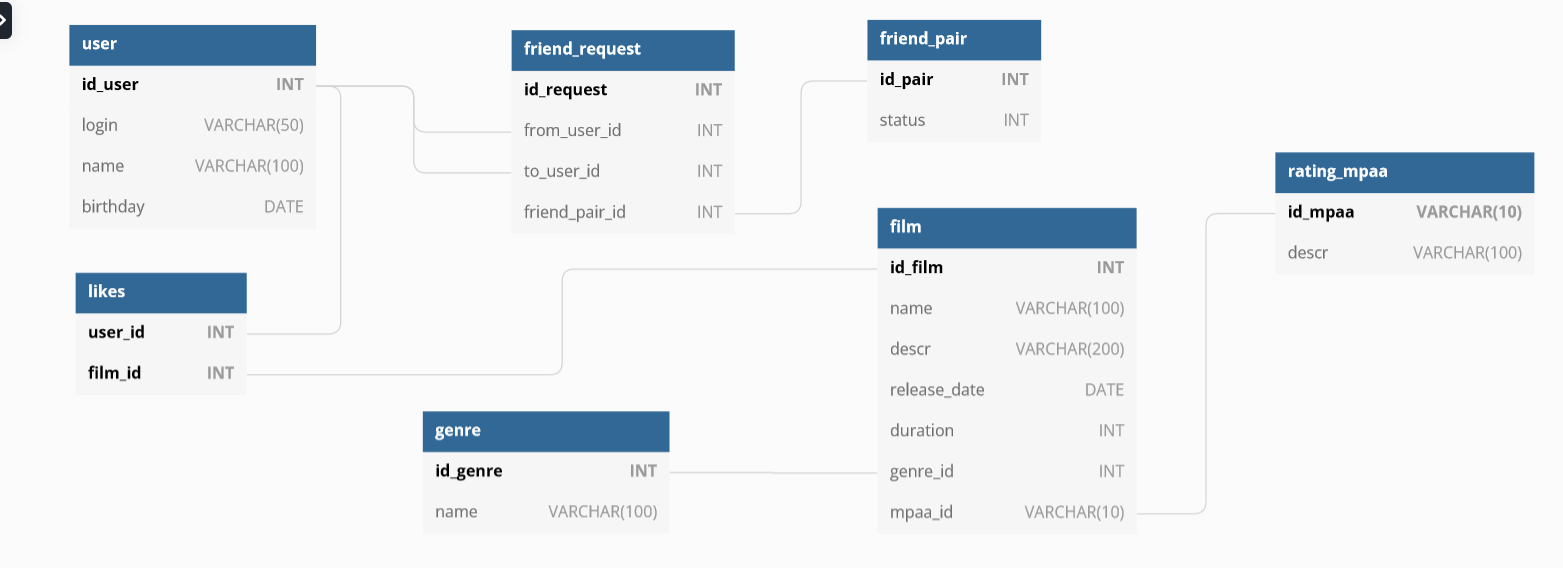
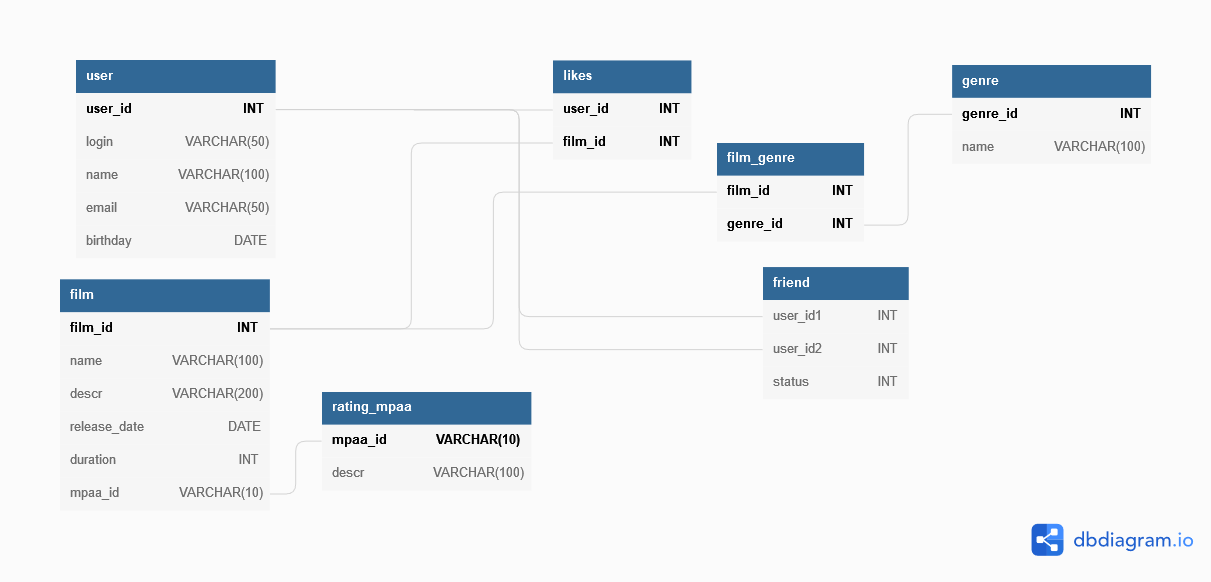
sql 2

diff --git a/README.md b/README.md
@@ -1,5 +1,7 @@
 # java-filmorate
 Ссылка на диаграмму
-https://dbdiagram.io/d/6280ce257f945876b61e5f90
+https://dbdiagram.io/d/62853bb57f945876b6456fee
+
+Описание базы и примеры запросов в SQL/description.txt
 
 ![Alt-текст](https://github.com/semin-alx/java-filmorate/blob/add-friends-likes/SQL/scheme.png "Диаграмма")
